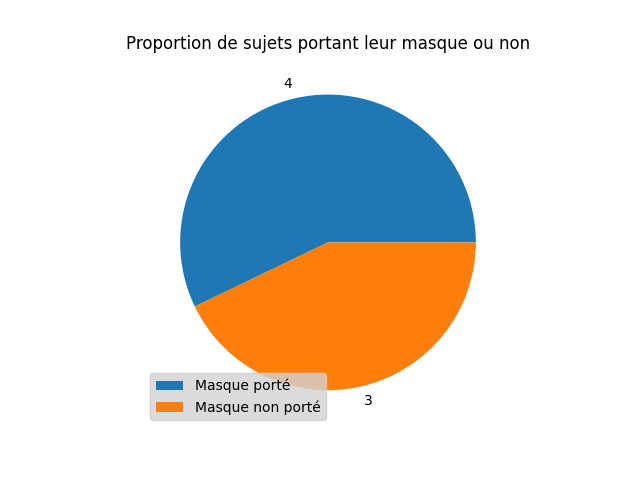
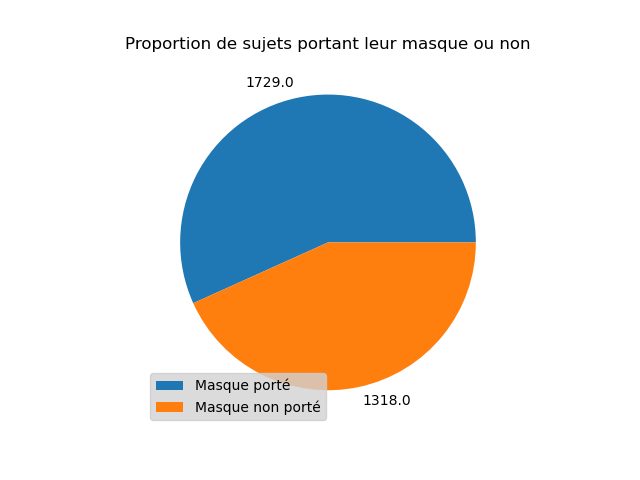
update

diff --git a/exemple_programe/plot.py b/exemple_programe/plot.py
@@ -1,20 +1,33 @@
 import pandas as pd
 import matplotlib.pyplot as plt
+from matplotlib.pyplot import pie, axis, show 
+import pandas as pd
 
-
-path = ("exemple_programe\stat_CS\donnee.csv")
-df = pd.read_csv(path,sep=';',index_col=0)
+path = ("/Users/mathieu/ProjetChallenge/CVHALL/exemple_programe/stat_CS/donnee.csv")
+df = pd.read_csv(path,sep=';',index_col=1)
 #print(df.head())
-dp = df[['nb_masques_bien_portes','nb_masques_mal_portes']].iloc[[0]]
+dp = df[['Somme_avec_masques','Somme_non_masques']].iloc[[0]]
 #print(dp)
-labels = ['nb_masques_bien_portes','nb_masques_mal_portes']
+labels = ['Somme_avec_masques','Somme_non_masques']
 fig = plt.figure()
 
-slices = [dp.iloc[0][0],dp.iloc[0][1]]
-labels = [dp.iloc[0][0],dp.iloc[0][1]]
 
-plt.pie(slices, labels = labels)
-plt.title('Proportion de sujets portant leur masque ou non')
-plt.legend(['Masque porté','Masque non porté'],loc = "lower left", facecolor = "lightgray")
-plt.savefig("app/resources/Figure")
+labels = [dp.iloc[0][0],dp.iloc[0][1]]
+sum1 = dp.iloc[0][0].sum()
+sum2= dp.iloc[0][1].sum()
+slices = [sum1,sum2]
+#plt.pie(slices, labels = labels)
+#plt.title('Proportion de sujets portant leur masque ou non')
+#plt.legend(['Masque porté','Masque non porté'],loc = "lower left", facecolor = "lightgray")
+#plt.savefig("app/resources/Figure")
+
+#Histogramme 
+
+hours = df.groupby('Heures').agg('sum')
+hours = hours[['nb_masques_bien_portes','nb_masques_non_portes']]
+print(hours)
+#plt.hist(x=hours.index.values)
+plt.hist(hours)
+hours.plot.bar()
+print(df.index.values)
 plt.show()
